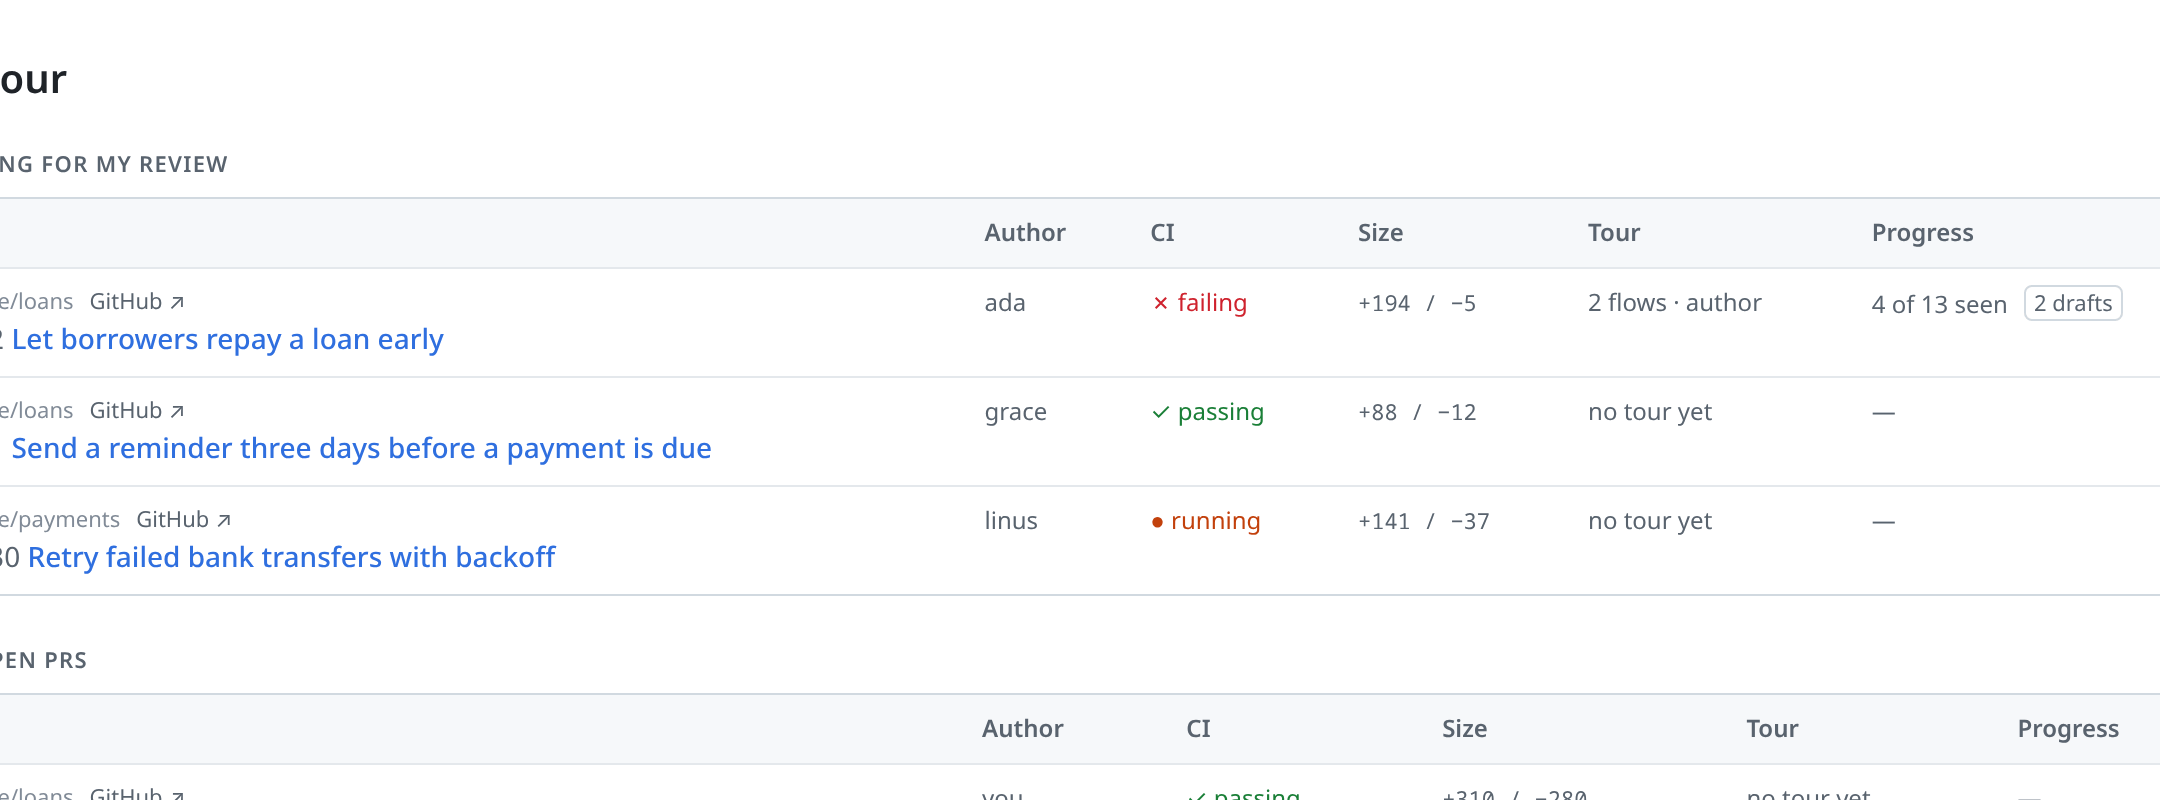
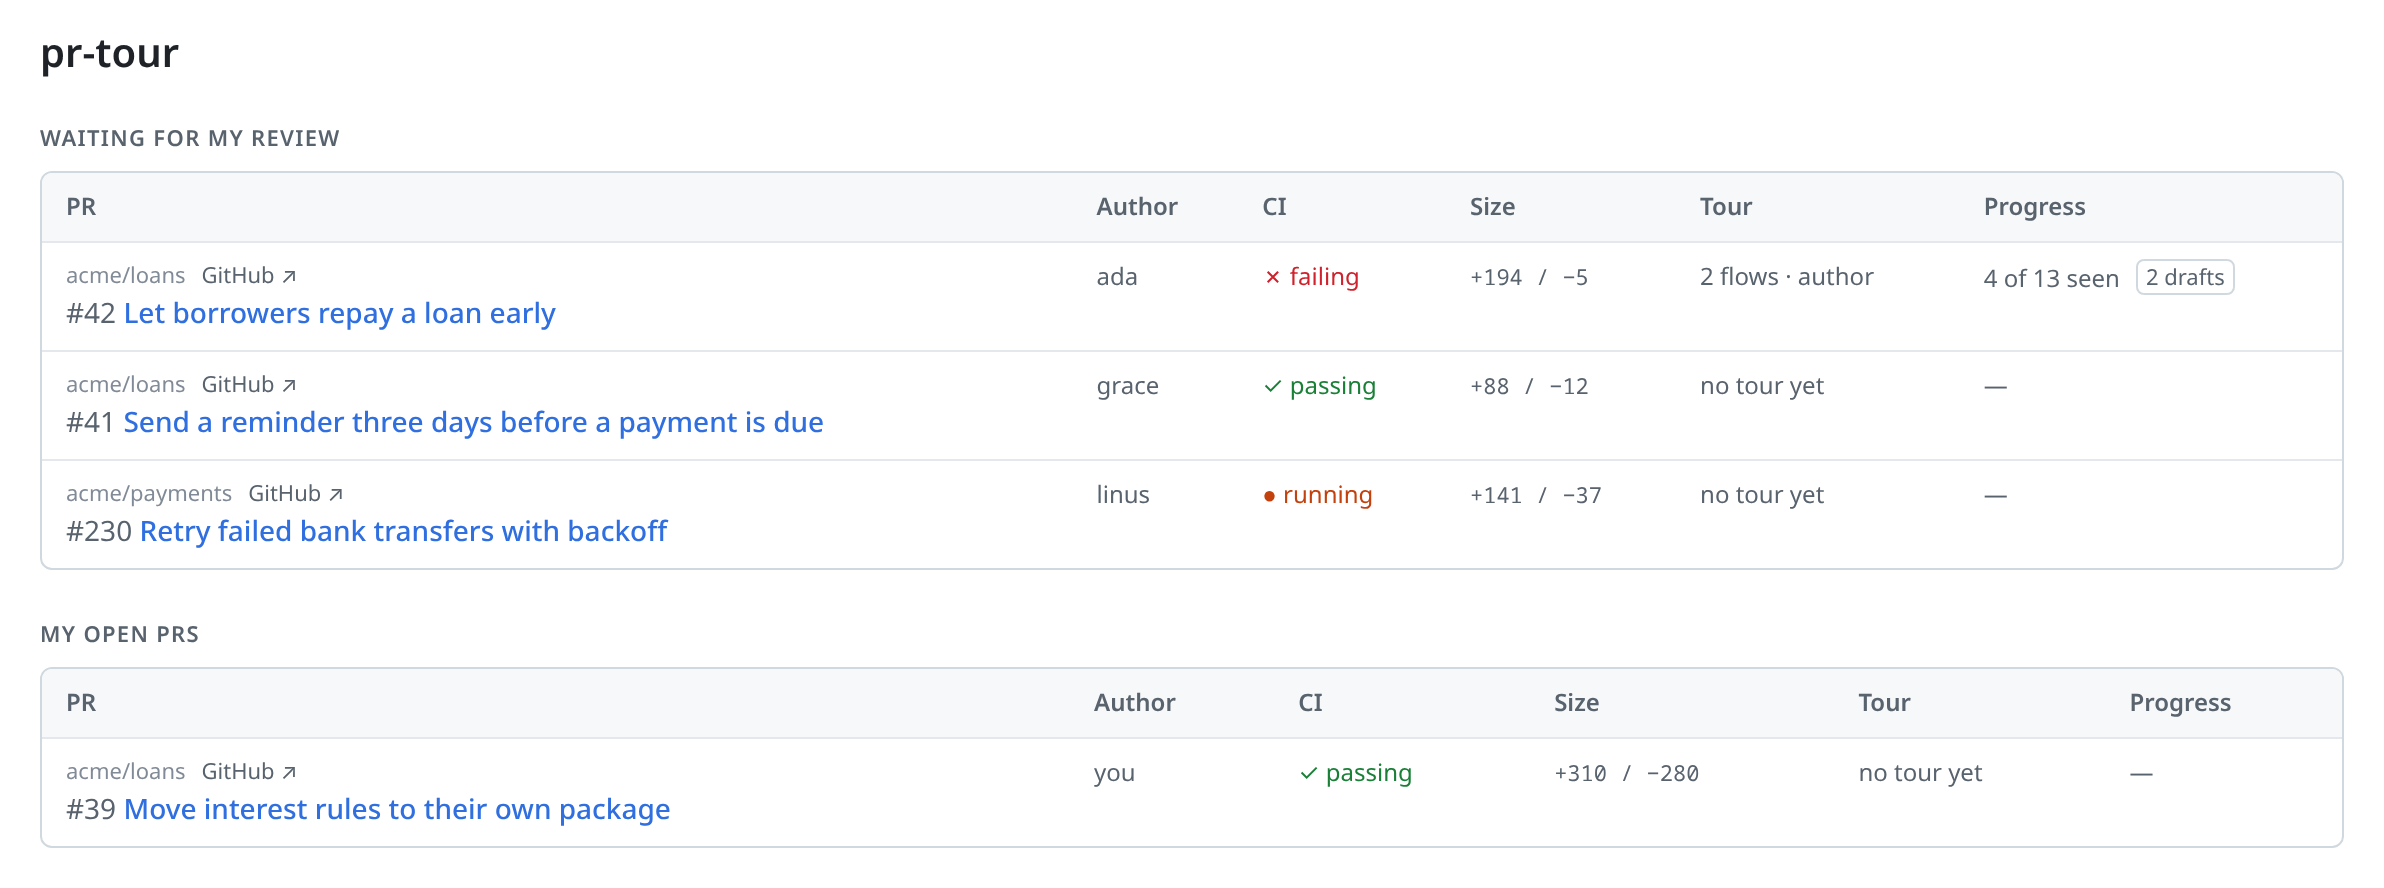
docs: apply review fixes to the README

diff --git a/README.md b/README.md
@@ -2,73 +2,79 @@
 
 Review a pull request as a guided tour, in the order the code runs.
 
-A diff shows files in alphabetical order. pr-tour shows the change the way you
-would explain it to a colleague: what it builds on, then each flow from its entry
-point (a route, a job, an event handler) step by step, with a map of who calls whom.
-You do your GitHub review in the same place.
+A diff shows files in alphabetical order. pr-tour shows the change the way you would
+explain it to a colleague. First what it builds on. Then each flow, step by step, from
+its entry point: a route, a job or an event handler. A map shows which step calls
+which. And you do your GitHub review in the same place.
 
-![The overview of a PR: a summary, possible problems from CI, and a map of each flow](docs/images/overview.png)
+![The overview of a PR: a summary, a possible problem from CI, and the map of each flow](docs/images/overview.png)
 
 <sub>All screenshots show a made-up PR in a made-up repo, `acme/loans`.</sub>
 
 ## What you get
 
 - **Flows, in the order the code runs.** Each flow starts at its entry point and
-  follows the calls, step by step. Every step says why it changed and what it touches:
-  database writes, events, calls to other services.
+  follows the calls, step by step. Every step says why it is there and what it
+  touches: database writes, events, calls to other services.
 - **A flow map.** A diagram of each flow: which step calls which, and on what line.
-  For Go code, pr-tour checks every arrow against the real code and marks it
-  **proven**.
+  For Go code, pr-tour checks each arrow against the real code. An arrow the code
+  backs up is marked **proven**.
+- **Your GitHub review, in the tour.** Comment on lines and suggest changes. Reply to
+  threads and resolve them. Then submit it all as one review. CI problems and
+  review-bot comments show up next to the code they are about.
 - **Nothing hidden.** Every changed line has exactly one place in the tour. Lines the
   tour does not explain are listed under "Unexplained".
-- **Your GitHub review, in the tour.** Comment on lines, suggest changes, reply to and
-  resolve threads, then submit one review. CI failures and review-bot findings show up
-  next to the code they are about.
 - **Tours from Claude or from the author.** pr-tour asks the `claude` CLI to build a
-  tour. Or the PR's author runs `/tour` right after pushing, and the notes say _why_
+  tour. Or the PR's author runs `/tour` right after pushing. Then the notes say _why_
   each change was made.
 
 ## Flows and the flow map
 
-A PR is split in three parts. **Foundations** are what the change builds on:
-migrations, models, config and dependencies. **Flows** follow the code from an entry
-point. **Other changes** are the rest: refactors, tests, infra and docs.
-
 The flow map draws each flow as a call tree. A blue edge means the step has changes.
-An orange outline means: read this one closely. Each arrow names the line that makes
-the call, and says if the code check proved it.
+A dashed box has no changes; it is there to show the flow. An orange outline marks a
+step to read closely. Each arrow between steps names the line that makes the call. A
+✓ means the code check proved it.
 
-![The flow map of one flow: five steps, each arrow proven by the code](docs/images/flow-map.png)
+<p align="center">
+  <img src="docs/images/flow-map.png" width="520" alt="The flow map of one flow: five steps, each arrow proven by the code">
+</p>
 
-Click a step on the map to peek into its code without leaving the map.
+Peek: click a step on the map and read its code below it, without leaving the map.
 
 ![Peeking into a step from the flow map](docs/images/peek.png)
 
 ## A step in the tour
 
-Each step shows its code with the diff, the author's (or Claude's) note on why, and
-where the flow came from. Calls that lead to another step get a **→ step N** badge, so
-you can follow the flow in the code. Side effects, like database writes, are marked
-on their line.
+A PR is split into three parts. **Foundations** are what the change builds on:
+migrations, models, config and dependencies. **Flows** follow the code from an entry
+point. **Other changes** are the rest: refactors, tests, infra and docs.
 
-![A step with step badges, a GitHub thread, a pending reply and the review panel](docs/images/step.png)
+Each step shows its code with the diff. A note says why, written by the author or by
+Claude. A line says which step called it. Calls that lead to another step get a
+**→ step N** badge. Click the call to go to that step. Side effects, like database
+writes, are marked on their line. A step with no test says so.
+
+![A step: the author's why, step badges on calls, DB writes marked, a GitHub thread with a pending reply, and the review panel](docs/images/step.png)
 
 ## Works with GitHub
 
 - **Inbox.** PRs waiting for your review and your own open PRs, with CI status, tour
   progress and unsent drafts.
-- **Threads.** Existing review threads show up next to their lines. Reply, resolve or
-  unresolve them.
-- **Drafts.** Comments stay on your machine until you submit them as one review.
-- **Possible problems.** Failed CI checks and their line notes are listed on the
-  overview and pinned to the step they belong to. Mark each one as a real problem or not.
+- **Threads.** Existing review threads show up next to their lines. Reply to them,
+  resolve them or unresolve them.
+- **Drafts.** Comments stay on your machine until you submit them as one review. If
+  you approve while some steps are not seen yet, pr-tour lists them first.
+- **Possible problems.** Failed CI checks, CI notes on changed lines, and open comments
+  from review bots (CodeRabbit, Copilot and others) are listed on the overview. Each
+  one is pinned to the step it is about. Mark each one as a real problem or not.
 - **Your own login.** pr-tour talks to GitHub with your `gh` login. It never pushes to a
   PR.
 
-![The inbox: PRs waiting for review, with CI status and tour progress](docs/images/inbox.png)
+![The inbox: PRs waiting for review, with CI status, tour progress and drafts](docs/images/inbox.png)
 
 pr-tour runs on your machine only. It listens on 127.0.0.1. It posts to GitHub only
-when you submit a review or resolve a thread.
+when you submit a review, or resolve or unresolve a thread. When Claude builds a tour,
+it can only read files. Hooks and settings in the PR's code do not run.
 
 ## Requirements
 
@@ -76,6 +82,7 @@ when you submit a review or resolve a thread.
 - [`gh`](https://cli.github.com/), logged in (`gh auth status`)
 - The [`claude`](https://docs.anthropic.com/en/docs/claude-code) CLI, logged in (for inferred tours)
 - `git`
+- Go 1.26 or later (optional, for the code check)
 
 ## Install
 
@@ -103,12 +110,12 @@ pr-tour open owner/name#123     # open the tour of one PR
 
 `pr-tour open` uses the pr-tour that is already running. If none is running, it
 starts one in the background, waits until it answers, opens the browser and
-exits. That background pr-tour keeps running; it prints its pid and writes its
-output to `server.log` in the data dir (`~/.pr-tour/server.log` by default).
+exits. That background pr-tour keeps running. It prints its pid. Its output goes to
+`server.log` in the data dir (`~/.pr-tour/server.log` by default).
 Stop it with `kill <pid>`.
 
-The inbox lists PRs waiting for your review and your own open PRs. Open one and
-click **Build tour** to get an inferred tour. In the tour:
+Open a PR from the inbox and click **Build tour**. While the tour builds, pr-tour
+shows what Claude is doing and how long it has run. In the tour:
 
 | Key       | Does                                              |
 | --------- | ------------------------------------------------- |
@@ -118,16 +125,17 @@ click **Build tour** to get an inferred tour. In the tour:
 | `o`       | open or close the overview                        |
 | `m`       | show or hide the flow map of this flow            |
 | `f`       | show the whole file, or fold unchanged code again |
+| `Esc`     | close the peek, the map or the overview           |
 
 Seen marks are saved, so you can stop and come back.
-
-The inbox also shows each PR's CI status and how many unsent drafts it has.
 
 ### Code check
 
 pr-tour can check a tour against the code. For Go files it adds the real functions
 and calls to the tour, and it reports steps that do not match the code
-(`finding:` lines in `pr-tour import`).
+(`finding:` lines in `pr-tour import`). **About this PR** shows how many steps sit on
+their function and how many links the code proved. The checker never downloads
+anything: it loads the project with `GOPROXY=off`.
 
 This needs Go 1.26 or later. It is optional. `npm run build` builds the checker when
 it finds a suitable `go`, and prints one line and goes on when it does not. Without
@@ -135,16 +143,16 @@ it, tours still build. To check a tour again, run `pr-tour recheck owner/name#12
 `pr-tour functions owner/name#123` lists the functions in a PR.
 
 pr-tour runs the checker built at `dist/bin/pr-tour-check-go`. Set `PR_TOUR_CHECKER`
-to the path of another checker binary to use that one instead. The override wins: if
-the file it names is not executable, the check does not run (and the tour says the
-checker is not installed). pr-tour does not fall back to the built one.
+to the path of another checker binary to use that one instead. The override wins.
+If the file it names is not executable, the check does not run. The tour then says the
+checker is not installed. pr-tour does not fall back to the built one.
 
 ### Reviewing
 
 You can do your GitHub review inside the tour.
 
-- **Comment:** click a line number in the code view. Shift-click a second line
-  to pick a range. Type your comment and save it.
+- **Comment:** click a line number in the code view. To pick a range, drag over
+  the line numbers or Shift-click a second line. Type your comment and save it.
 - **Suggest:** on new lines inside the diff, click **Suggest change**. You get a
   `suggestion` block to edit.
 - **Lines outside the diff:** GitHub can't take a line comment there. pr-tour
@@ -180,8 +188,8 @@ stops (exit code 2).
 
 After you push a PR, run `/tour` in the Claude Code session where you made the
 change. Claude writes the tour from what it knows about why each change was
-made, checks it with `pr-tour import`, and opens it. The tour is labeled
-"Notes by the author".
+made, checks it with `pr-tour import`, and opens it. The tour says
+"notes by the author".
 
 The skill uses these commands, which you can also run yourself:
 
